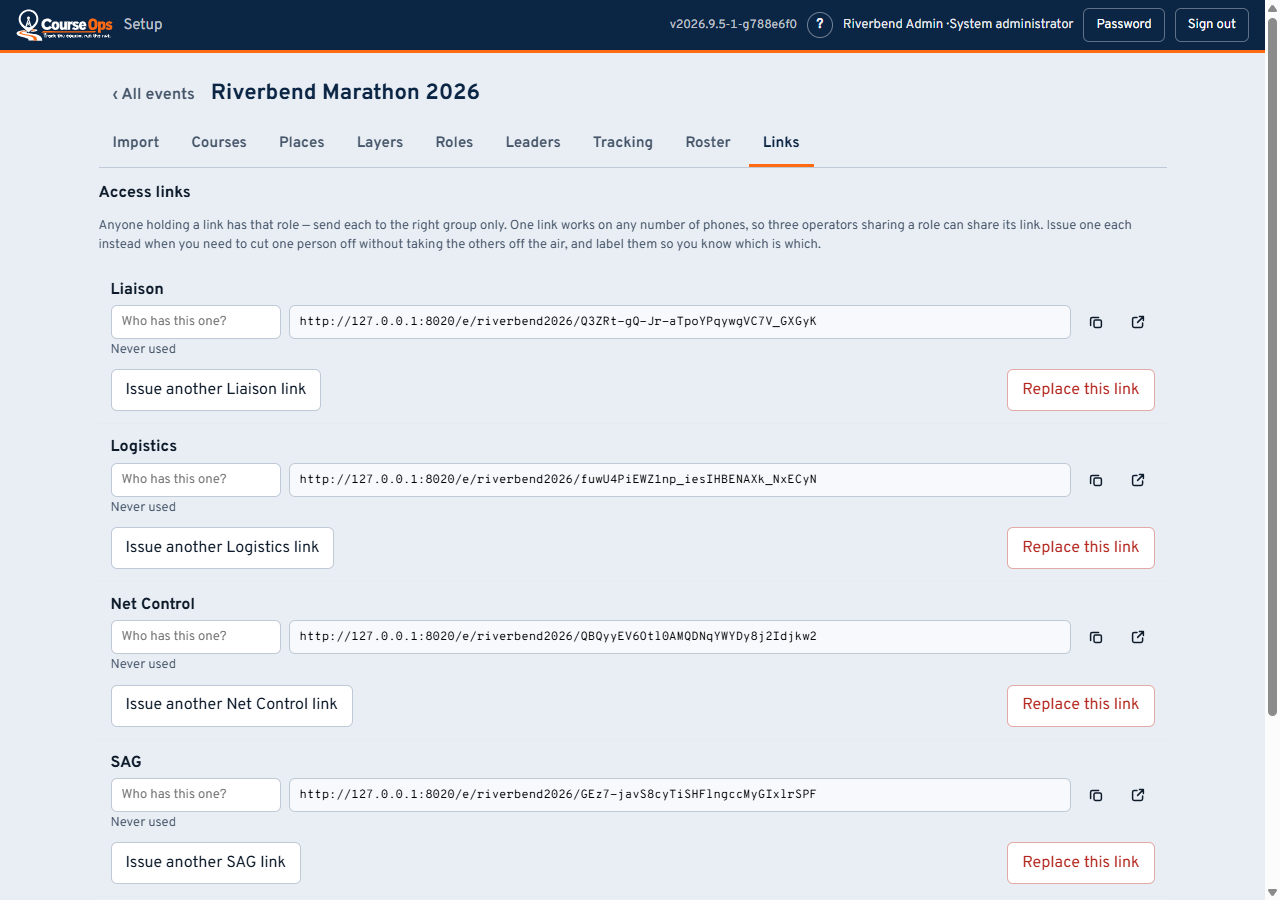
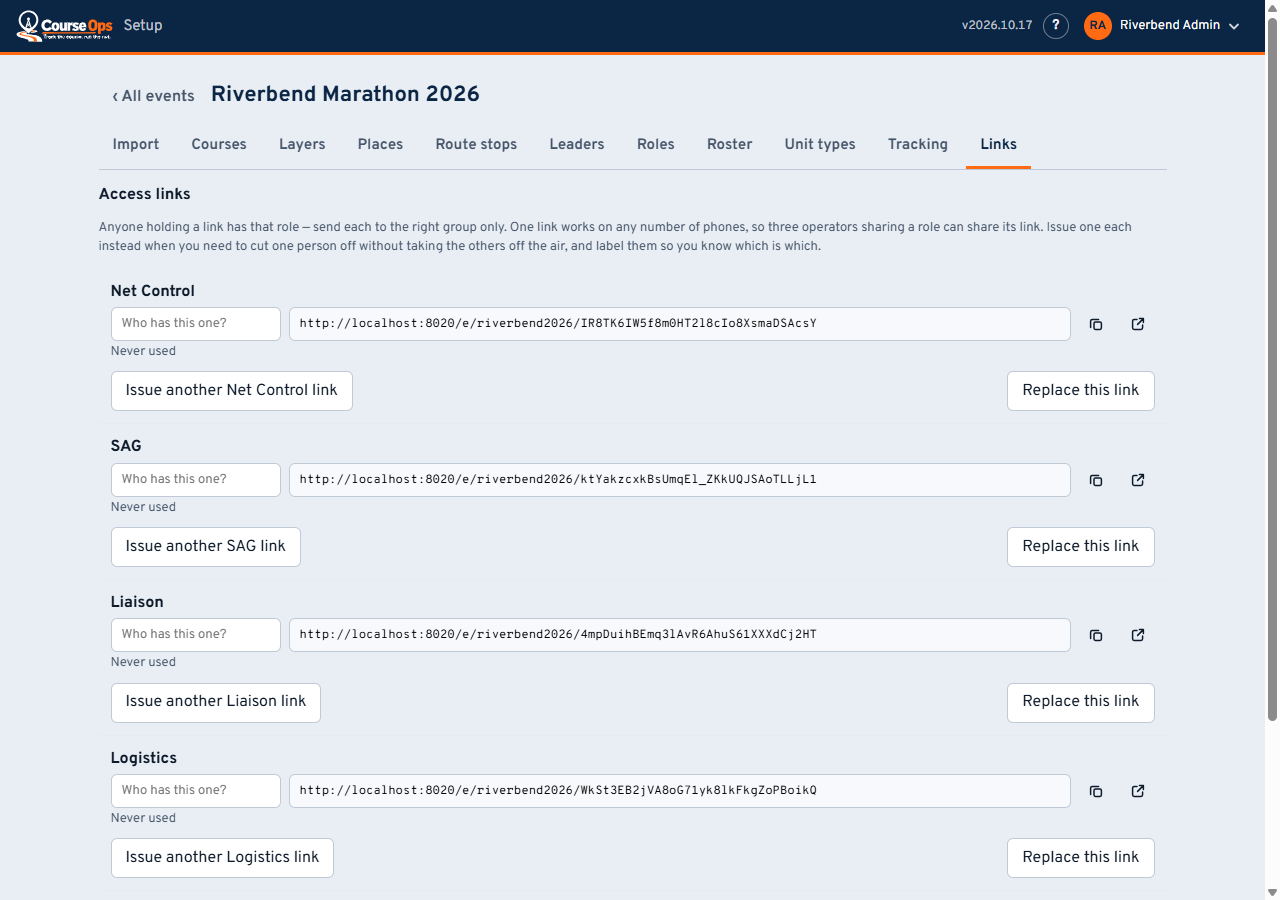
docs: re-shoot setup guide screenshots for the account menu
Claude-Session: https://claude.ai/code/session_01QkbtsMnQEe8HZ7xyxXHYHB

diff --git a/CHANGELOG.md b/CHANGELOG.md
@@ -11,6 +11,9 @@ month, PATCH counting releases in that month from 0. Before that they were
 
 ## [Unreleased]
 
+### Changed
+- Re-shot the setup guide screenshots that show the top bar (events, import, courses, places, layers, roles, leaders, roster, tracking, links, and the phone roster), which still showed the old name and Password / Sign out buttons and the September tab order. Added a picture of the account menu to the Users page of the guide.
+
 ## [2026.10.17] - 2026-10-20
 
 ### Changed

diff --git a/src/courseops/guides/setup-people.md b/src/courseops/guides/setup-people.md
@@ -147,6 +147,8 @@ ring), above *Sign out*: it asks for the current one first,
 and when it succeeds you are signed out everywhere and sign back in with the
 new one.
 
+![The account menu open: name and role, Change password, Sign out](images/setup-account-menu.png)
+
 **Disable** keeps the account and its event list but stops it signing in;
 **Delete** removes it. The last system administrator can be neither, because
 that would lock everyone out with no way back.
